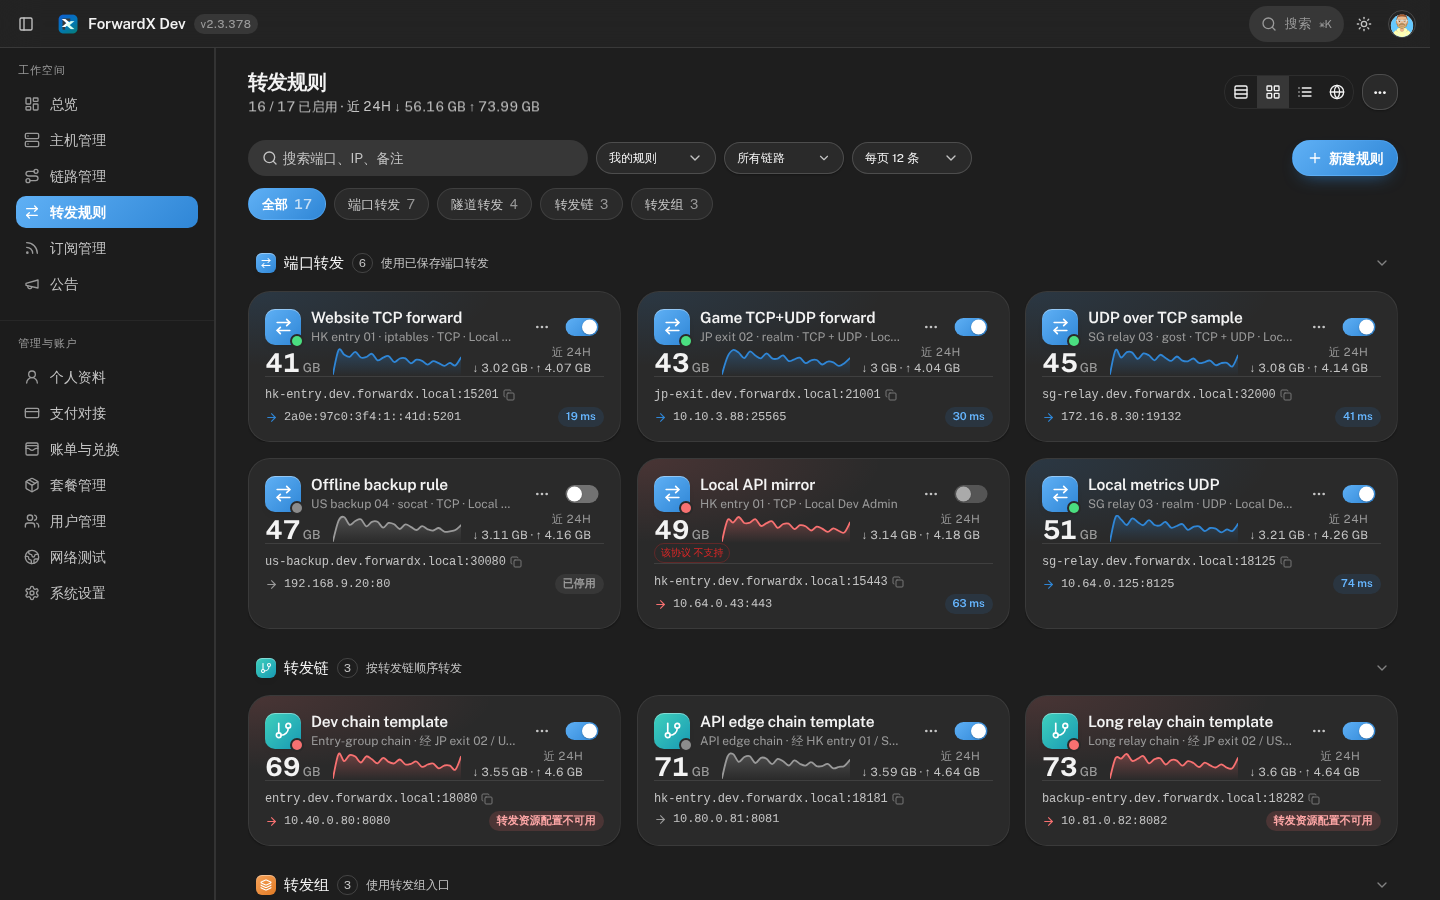
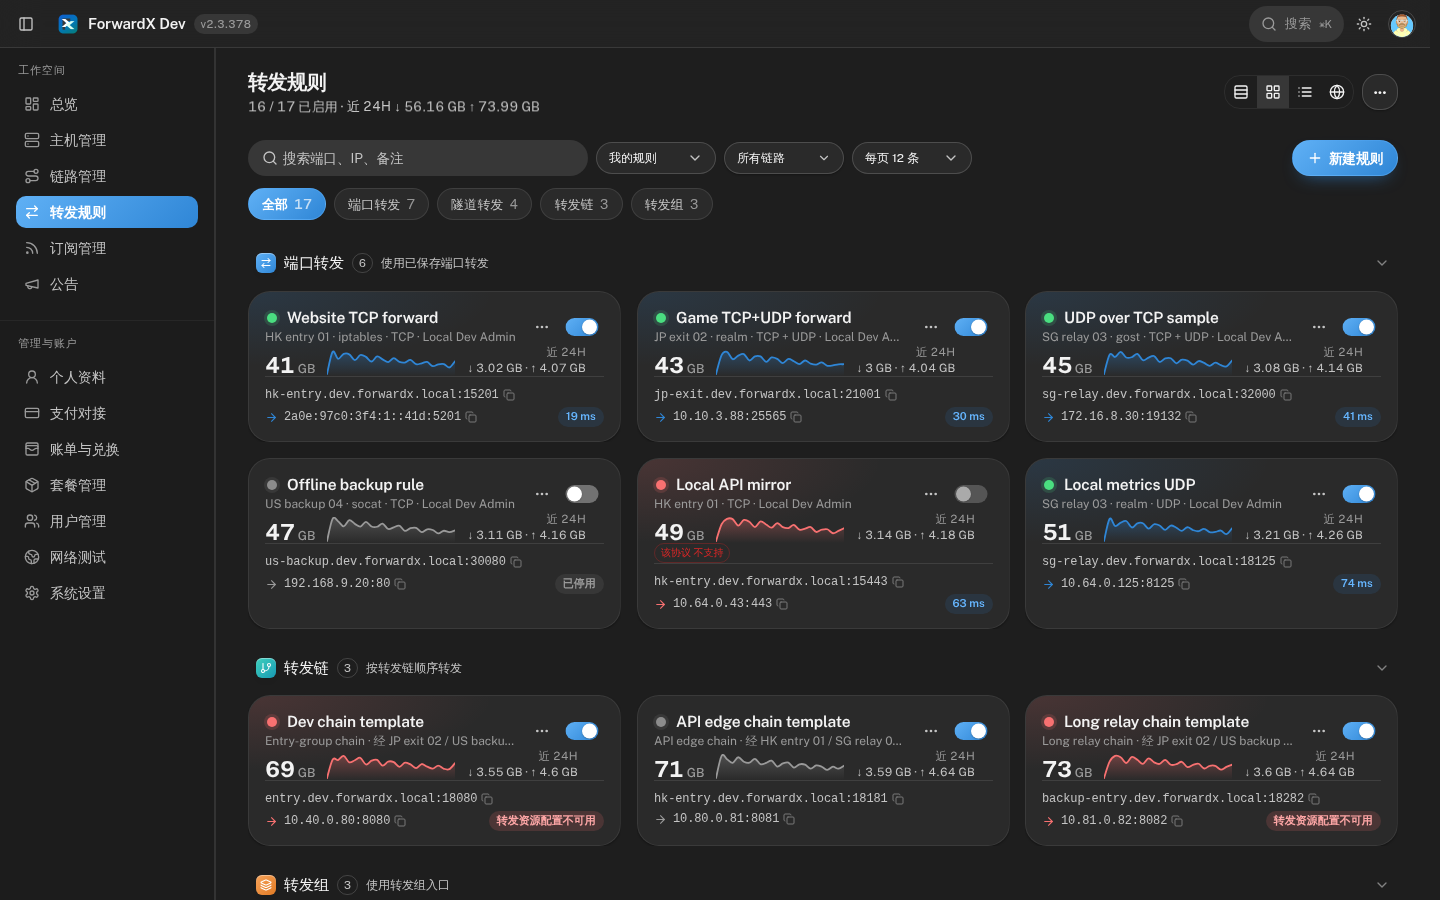
规则卡：去掉图标格、状态点回名字左边、大数字缩小、目标地址也可复制
用户看图后的三条：「图标不要」「41 适当缩小」「转发地址可复制」。
- 卡头只剩 状态点 + 名字 / 副标题；类型仍由分组标题的小图标格和卡上那抹光的色调说。
- 大数字 26px → 22px。
- 入口和目标地址都是点一下复制，小复制图标常驻（不再悬停才显）。

Claude-Session: https://claude.ai/code/session_01PmPTe1UqVuwAr6U5X1kChn

diff --git a/client/src/pages/Rules.tsx b/client/src/pages/Rules.tsx
@@ -5761,6 +5761,11 @@ function RulesContent() {
   };
 
   /** 复制入口 IP:端口 到剪贴板 */
+  const copyTargetAddress = async (text: string) => {
+    if (await copyTextToClipboard(text)) toast.success(`已复制目标地址: ${text}`);
+    else toast.error("复制失败，请手动复制");
+  };
+
   const copyEntryAddress = async (rule: any, entryValue?: string) => {
     if (rule.forwardGroupId) {
       const group = forwardGroupById.get(Number(rule.forwardGroupId));
@@ -6582,15 +6587,16 @@ function RulesContent() {
   /*
     规则卡（「玻璃 · 大数字」那版样稿，用户选的方向，按他们的要求收紧到一屏四张）：
 
-      [图标格·角上状态点] 名字                       ··· [开关]
-                          入口主机 · 转发工具 · 协议
+      ● 名字                                        ··· [开关]
+        入口主机 · 转发工具 · 协议
       113 GB   ～～走势线～～          近 24H
                                       ↓ 2.76 GB · ↑ 3.42 GB
       ─────────────────────────────────────────────
       192.0.2.21:443  →  10.10.3.88:443        [46 ms]
 
     卡不描边，坐在浅灰页面上靠一层很淡的投影成形；左上角一抹状态色的光（--fx-rule-tone）。
-    状态点仍在名字左边 —— 骑在图标格的右下角，像头像上的在线点，不在标题行里再占一格。
+    状态点在名字左边（用户定的）。第一版卡头还有一枚类型图标格，用户看图说「图标不要」，去掉了；
+    类型仍由分组标题上的小图标格和卡上那抹光的色调说。
     大数字是累计总量：一张卡最值得一眼看到的数。走势线是近 24 小时逐时字节，只画形状。
     地址一行等宽字、不截断；右端一枚小标签：延迟，或者切了线 / 出错 / 停用这些更要紧的话。
   */
@@ -6706,14 +6712,15 @@ function RulesContent() {
       >
         <CardContent className="fx-rule-card-body action-card-content">
           <div className="fx-rule-head">
-            <span className="fx-rule-tile">
-              {renderRuleTile(category, "md")}
-              <span className="fx-rule-tile-dot">
-                {supported ? renderStatusDot(rule) : <StatusDot health="down" size="large" label={unsupportedProtocolTitle} />}
-              </span>
-            </span>
             <div className="fx-rule-title">
-              <div className="fx-rule-name"><span className="truncate" title={rule.name}>{rule.name}</span>{renderSubscriptionMark(rule)}</div>
+              <div className="fx-rule-name">
+                {/* 状态点在名字左边（用户定的），图标格不要了（用户看了图说「图标不要」） */}
+                <span className="fx-rule-dot">
+                  {supported ? renderStatusDot(rule) : <StatusDot health="down" size="large" label={unsupportedProtocolTitle} />}
+                </span>
+                <span className="truncate" title={rule.name}>{rule.name}</span>
+                {renderSubscriptionMark(rule)}
+              </div>
               <div className="fx-rule-sub" title={subtitle}>{subtitle}</div>
             </div>
             <div className="fx-rule-head-actions">
@@ -6763,22 +6770,31 @@ function RulesContent() {
           )}
 
           <div className="fx-rule-path" title={`${entryAddresses.map((entry) => entry.text).join(" / ")} → ${targetAddress}`}>
+            {/* 入口和目标都是点一下就复制（用户要的）；小复制图标常驻，不用悬停才显出来 */}
             {primaryEntry ? (
               <button
                 type="button"
                 onClick={() => primaryEntry.copyable && copyEntryAddress(rule, primaryEntry.value)}
                 disabled={!primaryEntry.copyable}
-                className="fx-rule-addr group"
+                className="fx-rule-addr"
                 title={primaryEntry.copyable ? entryTitle : primaryEntry.text}
               >
                 <span className="truncate">{primaryEntry.text}</span>
                 {extraEntries > 0 ? <span className="fx-rule-addr-more">+{extraEntries}</span> : null}
-                {primaryEntry.copyable ? <Copy className="hidden h-3 w-3 shrink-0 opacity-50 group-hover:opacity-100 sm:inline" aria-hidden="true" /> : null}
+                {primaryEntry.copyable ? <Copy className="fx-rule-addr-copy" aria-hidden="true" /> : null}
               </button>
             ) : null}
             <span className="fx-rule-path-to">
               <ArrowRight className="fx-rule-path-arrow" aria-hidden="true" />
-              <code className="fx-rule-addr" title={targetAddress}><span className="truncate">{targetAddress}</span></code>
+              <button
+                type="button"
+                onClick={() => copyTargetAddress(targetAddress)}
+                className="fx-rule-addr"
+                title={`复制目标地址: ${targetAddress}`}
+              >
+                <span className="truncate">{targetAddress}</span>
+                <Copy className="fx-rule-addr-copy" aria-hidden="true" />
+              </button>
             </span>
             <span className="fx-rule-path-end">
               {failoverAside}

diff --git a/client/src/styles/workspace.css b/client/src/styles/workspace.css
@@ -1598,19 +1598,17 @@ html[data-personalization-background="image"] .auth-divider-label, html[data-per
 .workspace-main .fx-rule-card[data-size="standard"] .fx-rule-card-body { padding: 16px 16px 14px; }
 .workspace-main .fx-rule-card .fx-rule-card-body > * + * { margin-top: 0; }
 .fx-rule-head { display: flex; min-width: 0; align-items: center; gap: 10px; }
-.fx-rule-tile { position: relative; display: inline-flex; flex: none; }
-/* 状态点骑在图标格右下角，一圈卡色的白边把它从格子上托出来 */
-.fx-rule-tile-dot { position: absolute; right: -3px; bottom: -3px; display: inline-flex; border-radius: 999px; padding: 2px; background: var(--fx-l1-surface); line-height: 0; }
-.fx-rule-tile-dot [role="img"] { box-shadow: none !important; }
+/* 状态点在名字左边，和 15.5px 的字对中；点自带一圈软光 */
+.fx-rule-dot { display: inline-flex; flex: none; align-items: center; justify-content: center; width: 14px; height: 20px; margin-right: 2px; }
 .fx-rule-title { min-width: 0; flex: 1 1 auto; }
 .fx-rule-name { display: flex; min-width: 0; align-items: center; gap: 6px; font-size: 15.5px; font-weight: 600; letter-spacing: -.01em; line-height: 20px; color: var(--fx-text); }
 .fx-rule-sub { margin-top: 1px; overflow: hidden; text-overflow: ellipsis; white-space: nowrap; font-size: 12px; line-height: 16px; color: var(--fx-text-muted); }
 .fx-rule-head-actions { display: flex; flex: none; align-items: center; gap: 2px; }
-.fx-rule-big { display: flex; min-width: 0; align-items: flex-end; gap: 12px; margin-top: 14px; }
+.fx-rule-big { display: flex; min-width: 0; align-items: flex-end; gap: 12px; margin-top: 12px; }
 .fx-rule-num { flex: none; display: inline-flex; align-items: baseline; gap: 3px; line-height: 1; font-variant-numeric: tabular-nums; }
-.fx-rule-num > b { font-size: 26px; font-weight: 700; letter-spacing: -.03em; color: var(--fx-text); }
+.fx-rule-num > b { font-size: 22px; font-weight: 700; letter-spacing: -.025em; color: var(--fx-text); }
 .fx-rule-num > small { font-size: 12.5px; font-weight: 500; color: var(--fx-text-muted); }
-.fx-rule-spark { flex: 1 1 72px; min-width: 56px; max-width: 128px; width: auto; height: 28px; align-self: flex-end; color: var(--fx-text-muted); }
+.fx-rule-spark { flex: 1 1 72px; min-width: 56px; max-width: 128px; width: auto; height: 26px; align-self: flex-end; color: var(--fx-text-muted); }
 .fx-rule-day { flex: none; min-width: 0; display: flex; flex-direction: column; align-items: flex-end; gap: 1px; text-align: right; font-size: 11.5px; line-height: 15px; color: var(--fx-text-muted); font-variant-numeric: tabular-nums; white-space: nowrap; }
 .fx-rule-day-val { color: var(--fx-text-secondary); }
 .fx-rule-alerts { display: flex; min-width: 0; flex-wrap: wrap; align-items: center; gap: 6px; margin-top: 10px; font-size: 12px; }
@@ -1620,6 +1618,8 @@ html[data-personalization-background="image"] .auth-divider-label, html[data-per
 .fx-rule-addr > .truncate { min-width: 0; }
 button.fx-rule-addr:enabled:hover { color: var(--fx-text); }
 .fx-rule-addr-more { flex: none; color: var(--fx-text-muted); }
+.fx-rule-addr-copy { flex: none; width: 12px; height: 12px; color: var(--fx-text-muted); opacity: .7; }
+button.fx-rule-addr:enabled:hover .fx-rule-addr-copy, button.fx-rule-addr:enabled:active .fx-rule-addr-copy { opacity: 1; color: var(--fx-accent); }
 /* 箭头和目标绑在一起：折行时整段「→ 目标」下去，不会箭头留在上一行末尾 */
 .fx-rule-path-to { display: inline-flex; min-width: 0; max-width: 100%; align-items: center; gap: 6px; }
 .fx-rule-path-arrow { flex: none; width: 13px; height: 13px; color: var(--fx-rule-tone); }

diff --git a/docs/UI_PREMIUM_POLISH.md b/docs/UI_PREMIUM_POLISH.md
@@ -375,12 +375,12 @@ gzip 和缓存：第二次打开只下 `index.html` 和 API。
 192.0.2.21:443  →  10.10.3.88:443               [19 ms]
 ```
 
-- 状态点仍在名字左边，但骑在图标格的右下角（像头像上的在线点），标题行不再夹一格。
-- 大数字是累计总量（`formatBytes` 拆成数 + 单位）；旁边是近 24 小时的逐时走势线（新组件
+- 状态点在名字左边（第一版骑在类型图标格的右下角，用户看图说「图标不要」，图标格去掉了）。
+- 大数字（22px，用户嫌 26px 大）是累计总量（`formatBytes` 拆成数 + 单位）；旁边是近 24 小时的逐时走势线（新组件
   `client/src/components/charts/Sparkline.tsx`，只画形状，线色跟卡的色调）；右边「近 24H ↓ · ↑」。
   走势线的数据来自新端点 `rules.trafficSeriesBatch`（一页规则一次请求，服务端一条 GROUP BY ruleId,
   bucket；表格 / 地图视图不请求）。
-- 地址一行等宽字、放不下就折行（入口一行，「→ 目标」下一行），单个地址比卡还宽才截。右端一枚小标签：
+- 地址一行等宽字，入口和目标都点一下复制（常驻小复制图标）；放不下就折行（入口一行，「→ 目标」下一行），单个地址比卡还宽才截。右端一枚小标签：
   延迟；切了线 / 出错 / 停用比延迟要紧，有就换上。线路组按规矩在走时是一小段绿字（点开线路面板）。
 - 卡左上角一抹状态色的光（`.fx-rule-card::before`，色来自 `--fx-rule-tone`：主色 / 警告 / 故障；停用没有）。
 - 原来的占比条、卡底那行「累计  ↓ · ↑」和路径条（PathStrip）在规则卡上不再用；地址和延迟并到了一行。
